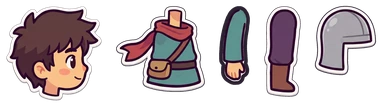
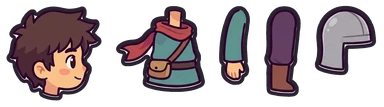
Painted copper armour set, swapped in per slot
Armour renders are split into helmeted head, torso, arm and leg by their
ink outlines (ignoring model ghost blobs), sized to the plain parts and
restyled to the house line weight. paintedPlayer swaps in a metal's
pieces per slot when its set is painted and tints the plain parts
otherwise. restyle now strips everything outside the render's ink line,
including soft drop shadows.

Claude-Session: https://claude.ai/code/session_011STHFHW1H3N9pF5E9tv6GM

diff --git a/index.html b/index.html
@@ -1109,20 +1109,26 @@ const POSES=[{legA:.03,legB:-.03,armA:.12,armB:-.12},{legA:.03,legB:-.03,armA:.1
 for(let k=0;k<4;k++){const ph=k/4*Math.PI*2,s=Math.sin(ph);POSES.push({legA:s*.6,legB:-s*.6,armA:-s*.65,armB:s*.65,bob:-Math.abs(Math.cos(ph))*2.5+1,wave:s*3});}
 POSES.push({legA:-.7,legB:.4,armA:-2.5,armB:-.5,wave:-4},{legA:.3,legB:-.3,armA:-2.9,armB:-2.5,wave:5},{legA:.25,legB:-.25,armA:-1.6,armB:.25});
 function playerSheet(){const eq={};const a=player.armor;if(a[0])eq.helm=ITEMS[a[0].id].color;if(a[1])eq.mail=ITEMS[a[1].id].color;if(a[2])eq.greaves=ITEMS[a[2].id].color;
-  if(PAINT.player)return paintedPlayer(eq);
+  const met={};['helm','mail','greaves'].forEach((k,i)=>{if(a[i])met[k]=a[i].id.slice(4);}); // helmcu, mailcu, legscu -> cu
+  if(PAINT.player)return paintedPlayer(eq,met);
   return makeSheet(9,96,144,(t,f)=>drawHuman(t,Object.assign({skin:'#f1cfa6',hair:'#5a3526',tunic:'#2f7f86',pants:'#3b3552',boots:'#6b4430',scarf:'#d4483b',
     back:tt=>{tt.beginPath();tt.moveTo(38,74);tt.lineTo(58,104);ink(tt,3.5,'#6b4430');rr(tt,24,92,16,16,4);fi(tt,'#b9874f',2);}},eq,POSES[f])));}
 // painted art: generated images in assets/ drawn over the code-drawn versions once they load (see paintArt at boot)
-const PAINT={};
+const PAINT={armor:{}};
 // player_parts.webp: side-view head, torso, arm, leg and helmet, posed with the same POSES angles as drawHuman; [x,y,w,h,pivotX,pivotY] in the image
 // player_parts_mask.webp marks what armour recolours (tunic, trousers and boots, helmet metal). Frames are 2x the 96x144 code frames.
 const RIG={head:[0,0,108,107,52.8,93.4],torso:[110,0,101,98,62.3,16.0],arm:[213,0,43,91,19.9,12.9],leg:[258,0,49,103,22.3,14.4],helm:[309,0,73,81,6.6,6.6]};
-function paintedPlayer(eq){const P=PAINT.player,c=mk(192*9,288),g=c.getContext('2d');
-  const piece=(k,col,dark)=>{const[x,y,w,h]=RIG[k],p=mk(w,h),q=p.getContext('2d');q.drawImage(P.img,x,y,w,h,0,0,w,h);
+// armor_<metal>.webp: that metal's set drawn on the character (head wearing the helmet, torso, arm, leg), same layout as RIG;
+// a slot whose metal has no painted set tints the plain parts instead
+const ARMOR_RIG={cu:{head:[0,0,107,107,50.8,93.0],torso:[109,0,100,99,65.2,16.6],arm:[211,0,46,91,25.6,14.2],leg:[259,0,48,103,23.9,15.0]}};
+function paintedPlayer(eq,met){const P=PAINT.player,c=mk(192*9,288),g=c.getContext('2d');
+  const piece=(k,slot,dark)=>{const m=slot&&met[slot],A=m&&PAINT.armor[m],r=(A?ARMOR_RIG[m]:RIG)[k],[x,y,w,h]=r,p=mk(w,h),q=p.getContext('2d');q.drawImage(A||P.img,x,y,w,h,0,0,w,h);
+    const col=!A&&slot&&eq[slot];
     if(col){const t=mk(w,h),u=t.getContext('2d');u.drawImage(P.mask,x,y,w,h,0,0,w,h);u.globalCompositeOperation='source-in';u.fillStyle=col;u.fillRect(0,0,w,h);q.globalCompositeOperation='color';q.drawImage(t,0,0);}
-    if(dark){q.globalCompositeOperation='source-atop';q.fillStyle='rgba(42,33,48,.28)';q.fillRect(0,0,w,h);}return p;};
-  const head=piece('head'),torso=piece('torso',eq.mail),armA=piece('arm',eq.mail),armB=piece('arm',eq.mail,1),legA=piece('leg',eq.greaves),legB=piece('leg',eq.greaves,1),helm=eq.helm&&piece('helm',eq.helm);
-  const put=(t,p,k,x,y,a)=>{t.save();t.translate(x,y);t.rotate(a||0);t.drawImage(p,-RIG[k][4],-RIG[k][5]);t.restore();};
+    if(dark){q.globalCompositeOperation='source-atop';q.fillStyle='rgba(42,33,48,.28)';q.fillRect(0,0,w,h);}p.px=r[4];p.py=r[5];return p;};
+  const setHelm=met.helm&&PAINT.armor[met.helm];
+  const head=setHelm?piece('head','helm'):piece('head'),torso=piece('torso','mail'),armA=piece('arm','mail'),armB=piece('arm','mail',1),legA=piece('leg','greaves'),legB=piece('leg','greaves',1),helm=eq.helm&&!setHelm&&piece('helm','helm');
+  const put=(t,p,k,x,y,a)=>{t.save();t.translate(x,y);t.rotate(a||0);t.drawImage(p,-p.px,-p.py);t.restore();};
   const fr=mk(192,288),h=fr.getContext('2d'),sil=mk(192,288),s=sil.getContext('2d');
   for(let f=0;f<9;f++){const o=POSES[f];h.clearRect(0,0,192,288);g.save();g.translate(f*192,0);g.beginPath();g.rect(0,0,192,288);g.clip();
     h.save();h.translate(0,(o.bob||0)*2);put(h,legB,'leg',89,194,o.legB);put(h,armB,'arm',90,159,o.armB);put(h,torso,'torso',93,137);put(h,legA,'leg',103,194,o.legA);put(h,head,'head',93,140);
@@ -2498,6 +2504,7 @@ function paintArt(src,f){const im=new Image();im.onload=()=>{try{const c=mk(1,1)
 paintArt('trees.webp',im=>{for(let k=0;k<2;k++){const[x,y]=C.canopy[k];A.clearRect(x,y,256,256);A.drawImage(im,k*512,0,512,512,x,y,256,256);}atlasTex.needsUpdate=true;PAINT.canopy=true;for(const k in chunks)dirty.add(+k);});
 paintArt('trunk.webp',im=>{A.clearRect(0,768,128,192);A.drawImage(im,0,0,256,128,0,768,128,64);A.drawImage(im,0,0,256,256,0,832,128,128);atlasTex.needsUpdate=true;PAINT.trunk=true;for(const k in chunks)dirty.add(+k);}); // into the free corner left of the canopies; the bark tile twice so filtering doesn't bleed other cells into it
 paintArt('foldfox.webp',im=>{const c=SHEETS.foldfox,g=c.getContext('2d');g.clearRect(0,0,c.width,c.height);g.drawImage(im,0,0,c.width,c.height);SHEETS.foldfoxT.needsUpdate=true;delete bestCache.foldfox;});
+for(const m in ARMOR_RIG)paintArt('armor_'+m+'.webp',im=>{PAINT.armor[m]=im;player.sheetDirty=true;});
 paintArt('player_parts.webp',img=>paintArt('player_parts_mask.webp',mask=>{PAINT.player={img,mask};player.sheetDirty=true;}));
 markMat.map=canvasTex(makeSheet(1,64,64,t=>{rr(t,23,5,18,36,9);fi(t,'#d4483b',3);circ(t,32,52,7);fi(t,'#d4483b',3);},3));markMat.needsUpdate=true;
 eliteMat.map=canvasTex(makeSheet(1,64,64,t=>{const s=[];for(let k=0;k<10;k++){const a=-Math.PI/2+k*Math.PI/5,r=k%2?11:26;s.push(32+Math.cos(a)*r,34+Math.sin(a)*r);}poly(t,s);fi(t,'#f1c04f',3.5);circ(t,27,28,3);t.fillStyle='#fff8e4';t.fill();},3));eliteMat.needsUpdate=true;

diff --git a/tools/art/build.py b/tools/art/build.py
@@ -8,6 +8,8 @@ from PIL import Image
 from scipy import ndimage
 
 RENDERS = {'tree': 'tree.png', 'fox': 'fox.png', 'fox2': 'fox2.png', 'trunk': 'trunk.png', 'parts': 'parts.png'}
+# armour sets (STYLE.md prompts): head wearing the helmet, torso, arm, leg; build whichever are present
+ARMOR = {m: f'armor-{m}.png' for m in ('cu', 'fe', 'au', 'fr', 'ik', 'em')}
 INK, CREAM = (0x2a, 0x21, 0x30), (0xfb, 0xf5, 0xe6)
 INK_W, BORDER_W = .05, .06  # in tiles, as seen in game (STYLE.md)
 
@@ -28,19 +30,14 @@ def restyle(im, ppt, border=True):
     kt, bt = INK_W * ppt, (BORDER_W * ppt if border else 0); pad = math.ceil(kt + bt) + 4
     a = np.asarray(im.convert('RGBA')).astype(float); a = np.pad(a, ((pad, pad), (pad, pad), (0, 0)))
     solid = a[..., 3] > 127; din = ndimage.distance_transform_edt(solid)
-    rgb = a[..., :3]; mx, mn = rgb.max(axis=2), rgb.min(axis=2)
-    # thickness of the render's border, then its ink: the distance in from the edge where under half the pixels still match
-    ring = np.rint(din).astype(int); light = solid & (mn > 200); dark = solid & (mx < 90)
-    def width(cls, start):  # skips the anti-aliased fringe: waits for the class to reach half, then for it to fall below
-        seen = False
-        for d in range(start + 1, int(.25 * ppt)):
-            sel = ring == d
-            if not sel.any(): continue
-            r = cls[sel].mean()
-            if r >= .5: seen = True
-            elif seen: return d - 1
-        return start
-    B = width(light, 0); K = width(dark, B) - B
+    mx = a[..., :3].max(axis=2)
+    # everything outside the render's ink line (its border, any soft shadow) is replaced: find where the ink starts and ends,
+    # as the distance in from the edge where at least half the pixels are ink, then where they stop being
+    ring = np.rint(din).astype(int); dark = solid & (mx < 90); ratio = []
+    for d in range(1, int(.25 * ppt)):
+        sel = ring == d; ratio.append(dark[sel].mean() if sel.any() else 0)
+    ratio = np.array(ratio); on = np.argmax(ratio >= .5); off = on + np.argmax(ratio[on:] < .5)
+    B = on; K = off - on  # ratio[i] is distance i+1, so B = pixels before the ink and K = ink pixels
     core = din > B + max(0, K - kt)
     dout = ndimage.distance_transform_edt(~core)
     add = max(0., kt - K)  # extra ink ring when the render's ink is thinner than the standard
@@ -128,6 +125,39 @@ def tintmask(k, im):
     else: m = np.zeros_like(al)
     return m & al
 
+def inked_pieces(img, n=4, bw=30):
+    """Split a parts sheet into its n pieces, left to right, by filling each closed ink outline and adding the border back.
+    Ignores the blurry ghost blobs image models sometimes add, since they have no ink outline."""
+    a = np.asarray(img.convert('RGB')).astype(int)
+    bg = np.median(np.concatenate([a[0], a[-1], a[:, 0], a[:, -1]]), axis=0)
+    fg = np.abs(a - bg).max(axis=2) >= 16; ink = a.max(axis=2) < 90
+    core = ndimage.binary_fill_holes(ndimage.binary_closing(ink, iterations=2))
+    lab, m = ndimage.label(core); sz = ndimage.sum(core, lab, range(1, m + 1)); out = []
+    for k in np.argsort(-sz)[:n] + 1:
+        mask = ndimage.binary_fill_holes(ndimage.binary_dilation(lab == k, iterations=bw) & fg)
+        ys, xs = np.where(mask); sl = (slice(ys.min(), ys.max() + 1), slice(xs.min(), xs.max() + 1))
+        out.append((xs.min(), Image.fromarray(np.dstack([a.astype(np.uint8), (mask * 255).astype(np.uint8)])[sl], 'RGBA')))
+    return [im for _, im in sorted(out, key=lambda t: t[0])]
+
+# joint points per armour render, in its piece-local source px (neck base, neck top, shoulder, hip); a new render needs its own
+ARMOR_PIV = {'cu': {'head': (258, 505), 'torso': (356, 60), 'arm': (125, 50), 'leg': (114, 55)}}
+BASE_H = {'head': 669, 'torso': 608, 'arm': 553, 'leg': 643}  # base part heights in parts.png, so armour pieces match their size
+
+def armor(img, m):
+    """armor_<m>.webp: helmeted head, torso, arm, leg (ink only, no tint mask); prints the ARMOR_RIG entry."""
+    x = 0; pieces = []; rows = []
+    for k, im in zip(('head', 'torso', 'arm', 'leg'), inked_pieces(img)):
+        s = PART_S * BASE_H[k] / im.height; im, pad = restyle(im, 120 / s, border=False)
+        w, h = round(im.width * s), round(im.height * s); r = im.resize((w, h), Image.LANCZOS)
+        px, py = ARMOR_PIV[m][k]; pieces.append((r, x))
+        rows.append(f"{k}:[{x},0,{w},{h},{round((px + pad) * s, 1)},{round((py + pad) * s, 1)}]"); x += w + 2
+    out = Image.new('RGBA', (x, max(r.height for r, _ in pieces)), (0, 0, 0, 0))
+    for r, x in pieces: out.alpha_composite(r, (x, 0))
+    out.save(f'assets/armor_{m}.webp', quality=92, method=6)
+    print(f"{m}:{{" + ','.join(rows) + '}')
+
 if __name__ == '__main__':
     d = sys.argv[1]; src = {k: Image.open(os.path.join(d, f)) for k, f in RENDERS.items()}
     trees(src); fox(src); trunk(src); parts(src)
+    for m, f in ARMOR.items():
+        if os.path.exists(os.path.join(d, f)): armor(Image.open(os.path.join(d, f)), m)

diff --git a/CLAUDE.md b/CLAUDE.md
@@ -100,12 +100,14 @@ The game is moving characters, creatures and objects from code-drawn art to pain
 |---|---|---|
 | Title screen | `title.webp` | plain title overlay |
 | Player | `player_parts.webp`, `player_parts_mask.webp` | `drawHuman` player in `playerSheet()` |
+| Copper armour (helmet, chainmail, greaves) | `armor_cu.webp` | tinted plain parts |
 | Fold Fox | `foldfox.webp` (2 frames) | `SHEETS.foldfox` |
 | Leafy tree canopies (bright and dark) | `trees.webp` | `C.canopy[0]`, `C.canopy[1]` |
 | Tree trunk (bark tile and root base) | `trunk.webp` | `C.trunk` cell (drawn wider, see below) |
 
 Still code-drawn, to be painted:
 
+- **Armour sets:** iron, gold, frostsilver, inkstone, emberite (prompts in the session notes; until painted, these tint the plain parts).
 - **Enemies:** Green Slime, Blue Slime, Paper Zombie, Watcher Eye, Cave Bat, Cardboard Knight, Crumple, Toadstool Lobber, Dune Fin, Shell Scarab, Sun Kite, Flurry, Snow Roller, Snowlet, Frost Puff, Ink Blot, Ink Squid, Ink Wisp, Quillfish, Cinder Bat, Ash Imp, Firecracker Imp, Ash Spider, Ink Wraith.
 - **Bosses:** King Slime, Great Crane, Inkwell Leviathan (head, body segment, tail), Charred Folio, The Unfolded (ink shrine).
 - **NPCs:** Guide, Painter, Nurse, Tinkerer, Merchant.
@@ -123,9 +125,9 @@ The owner has a Higgsfield Pro account connected as an MCP server (`mcp__Higgsfi
 - The Higgsfield project "The Folded Frontier art" holds all the source renders; pass one as a reference image to keep new art consistent with it.
 - Image downloads come from `d8j0ntlcm91z4.cloudfront.net`, which the cloud environment's network policy has to allow. In headless Chromium, three.js from cdnjs can fail through the proxy (`ERR_TOO_MANY_RETRIES`): route it to a local copy with `page.route`.
 - **Getting it in the game:** save under `assets/` as `.webp`. `paintArt(file, fn)` (right after `buildSheets()` at boot) loads an image and, once loaded, draws it over the code-drawn version: into the `SHEETS` canvas (then `SHEETS[k+'T'].needsUpdate=true`) for sprites, or into the atlas (`A`, then `atlasTex.needsUpdate=true`, and add every chunk to `dirty` if the mesh changes) for atlas cells. Match the frame layout the code expects (`STYLE.md` has the sizes); files can be 2x. `paintArt` skips images it can't read back, which is what happens when `index.html` is opened from `file://` (WebGL can't use them there), so that falls back to code art. `PAINT` holds flags and images for painted art that changes how things are drawn.
-- **Player:** `player_parts.webp` has side-view head, torso, arm, leg and helmet pieces; `paintedPlayer()` poses them with the same `POSES` angles as `drawHuman`, with the back arm and leg darkened, then adds one cream border round each frame. `RIG` holds each piece's rect and joint point. `player_parts_mask.webp` marks what armour recolours (tunic and sleeves for mail, trousers and boots for greaves, the helmet metal), using the canvas `color` blend; the helmet piece is only drawn when a helmet is equipped.
+- **Player:** `player_parts.webp` has side-view head, torso, arm, leg and helmet pieces; `paintedPlayer()` poses them with the same `POSES` angles as `drawHuman`, with the back arm and leg darkened, then adds one cream border round each frame. `RIG` holds each piece's rect and joint point. `player_parts_mask.webp` marks what armour recolours (tunic and sleeves for mail, trousers and boots for greaves, the helmet metal), using the canvas `color` blend; the helmet piece is only drawn when a helmet is equipped. Metals with a painted set (`armor_<metal>.webp`, rects in `ARMOR_RIG`, loaded into `PAINT.armor`) swap in their own pieces per slot instead: the helmet slot swaps the head for one wearing the helmet, chainmail swaps torso and arms, greaves swap the legs. Metal codes come from the item ids (`helmcu` → `cu`).
 - **Trees:** the painted trunk is drawn two tiles wide and behind the canopy (`PAINT.trunk` in the chunk mesh builder), from a free 128×192 corner of the atlas at (0, 768): the bark tile twice (the first copy is padding so filtering doesn't bleed other cells in), then the root base. Painted canopies are drawn a size up (5×5 tiles) when `PAINT.canopy` is set; the snowy pine keeps its code size.
-- **`tools/art/build.py <renders dir>`** rebuilds every painted asset from the source renders (download them from the Higgsfield project, named as in its `RENDERS`). It cuts out the background, then `restyle()` redraws the ink outline and cream border at the `STYLE.md` thickness in tiles as seen in game, so art scaled by different amounts still matches; player parts get ink only, and `paintedPlayer()` adds one border round the whole figure. It prints the `RIG` table to paste into `index.html`. Joint points and crop rows in it fit these particular renders; a new render needs its own numbers.
+- **`tools/art/build.py <renders dir>`** rebuilds every painted asset from the source renders (download them from the Higgsfield project, named as in its `RENDERS`). It cuts out the background, then `restyle()` redraws the ink outline and cream border at the `STYLE.md` thickness in tiles as seen in game, so art scaled by different amounts still matches; player parts get ink only, and `paintedPlayer()` adds one border round the whole figure. It prints the `RIG` and `ARMOR_RIG` entries to paste into `index.html`. Armour renders (`armor-<metal>.png`) are split by `inked_pieces()`, which ignores the blurry ghost blobs image models sometimes add; each needs its joint points in `ARMOR_PIV`. Joint points and crop rows in it fit these particular renders; a new render needs its own numbers.
 
 ## Testing
 
